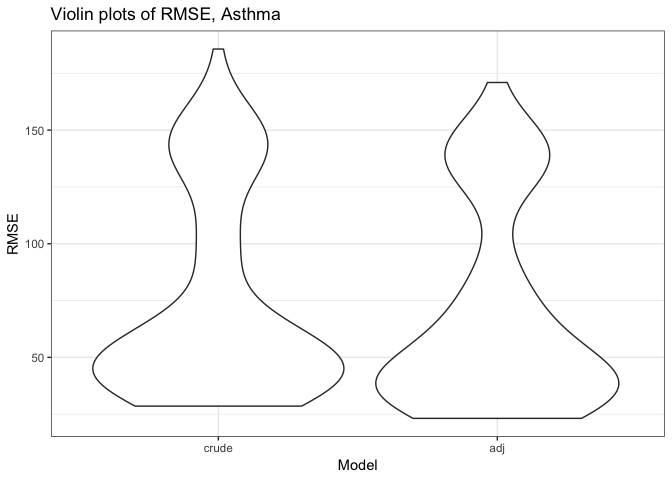
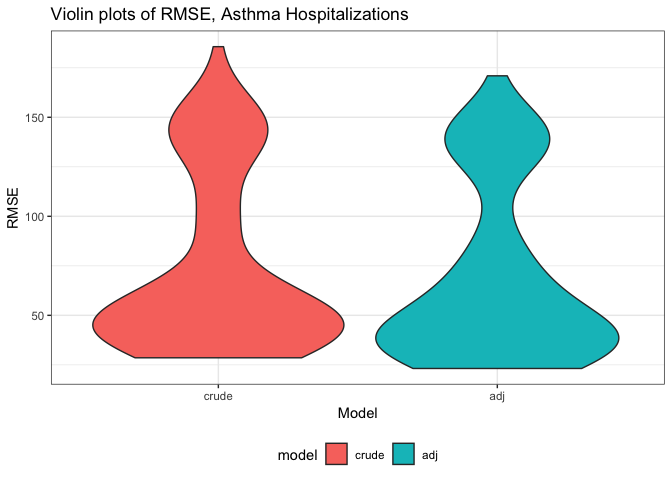
model building

diff --git a/model_building.md b/model_building.md
@@ -104,11 +104,15 @@ We will test two models each for asthma hospitalizations and CVD hospitalization
 
 Crude model:
 
-> asthma = pm25 cvd = pm25
+> asthma = unhealthy\_aqi
+
+> cvd = unhealthy\_aqi
 
 Adjusted model:
 
-> asthma = pm25 + num\_hosp cvd = pm25 + num\_hosp
+> asthma = unhealthy\_aqi + num\_hosp
+
+> cvd = unhealthy\_aqi + num\_hosp
 
 Interaction is not included, as it makes interpretation difficult.
 
@@ -117,11 +121,9 @@ Interaction is not included, as it makes interpretation difficult.
 ``` r
 # Crude asthma model
 crude_asthma_model = lm(asthma_hosp_percent_rate_ratio ~ total_unhealthy_days, data = nys_joined)
-summary(crude_asthma_model)
 
 # Adjusted asthma model
 adj_asthma_model = lm(asthma_hosp_percent_rate_ratio ~ total_unhealthy_days + number_of_hospitals, data = nys_joined)
-summary(adj_asthma_model)
 ```
 
 #### CVD model
@@ -129,11 +131,9 @@ summary(adj_asthma_model)
 ``` r
 # Crude cvd model
 crude_cvd_model = lm(cvd_percent_rate ~ total_unhealthy_days, data = nys_joined)
-summary(crude_cvd_model)
 
 # Adjusted cvd model
 adj_cvd_model = lm(cvd_percent_rate ~ total_unhealthy_days + number_of_hospitals, data = nys_joined)
-summary(adj_cvd_model)
 ```
 
 Cross validation
@@ -159,9 +159,9 @@ cv_asthma %>%
   gather(key = model, value = rmse) %>% 
   mutate(model = str_replace(model, "rmse_", ""),
          model = fct_inorder(model)) %>% 
-  ggplot(aes(x = model, y = rmse)) + 
+  ggplot(aes(x = model, y = rmse, fill = model)) + 
   labs(
-    title = "Violin plots of RMSE, Asthma",
+    title = "Violin plots of RMSE, Asthma Hospitalizations",
     y = "RMSE",
     x = "Model"
   ) +
@@ -212,9 +212,9 @@ cv_cvd %>%
   gather(key = model, value = rmse) %>% 
   mutate(model = str_replace(model, "rmse_", ""),
          model = fct_inorder(model)) %>% 
-  ggplot(aes(x = model, y = rmse)) + 
+  ggplot(aes(x = model, y = rmse, fill = model)) + 
   labs(
-    title = "Violin plots of RMSE, CVD",
+    title = "Violin plots of RMSE, CVD Hospitalizations",
     y = "RMSE",
     x = "Model"
   ) +
@@ -244,3 +244,62 @@ nys_joined %>%
 <img src="model_building_files/figure-markdown_github/cvd_diagnostics-1.png" width="90%" />
 
 The plot of the residuals for the adjusted CVD hospitalizations model shows that the residuals are widely distributed for the lower predicted values, and has similar issues to the asthma hospitalizations plot in that the small sample size pulling the fitted line.
+
+Final models
+------------
+
+``` r
+# Adjusted asthma model
+adj_asthma_model = lm(asthma_hosp_percent_rate_ratio ~ total_unhealthy_days + number_of_hospitals, data = nys_joined)
+summary(adj_asthma_model)
+## 
+## Call:
+## lm(formula = asthma_hosp_percent_rate_ratio ~ total_unhealthy_days + 
+##     number_of_hospitals, data = nys_joined)
+## 
+## Residuals:
+##     Min      1Q  Median      3Q     Max 
+## -143.08  -25.36   -8.35   19.10  403.28 
+## 
+## Coefficients:
+##                      Estimate Std. Error t value Pr(>|t|)    
+## (Intercept)            63.033     11.203   5.627 5.34e-07 ***
+## total_unhealthy_days   21.204      8.780   2.415 0.018847 *  
+## number_of_hospitals     9.170      2.452   3.740 0.000419 ***
+## ---
+## Signif. codes:  0 '***' 0.001 '**' 0.01 '*' 0.05 '.' 0.1 ' ' 1
+## 
+## Residual standard error: 66.47 on 59 degrees of freedom
+## Multiple R-squared:  0.424,  Adjusted R-squared:  0.4044 
+## F-statistic: 21.71 on 2 and 59 DF,  p-value: 8.579e-08
+# summary(crude_asthma_model)
+
+# Adjusted CVD model
+adj_cvd_model = lm(cvd_percent_rate ~ total_unhealthy_days + number_of_hospitals, data = nys_joined)
+summary(adj_cvd_model)
+## 
+## Call:
+## lm(formula = cvd_percent_rate ~ total_unhealthy_days + number_of_hospitals, 
+##     data = nys_joined)
+## 
+## Residuals:
+##    Min     1Q Median     3Q    Max 
+## -58.03 -14.66   0.80  13.00  41.60 
+## 
+## Coefficients:
+##                      Estimate Std. Error t value Pr(>|t|)    
+## (Intercept)          119.9347     3.4517  34.747   <2e-16 ***
+## total_unhealthy_days   0.6267     2.7051   0.232   0.8176    
+## number_of_hospitals    1.3145     0.7555   1.740   0.0871 .  
+## ---
+## Signif. codes:  0 '***' 0.001 '**' 0.01 '*' 0.05 '.' 0.1 ' ' 1
+## 
+## Residual standard error: 20.48 on 59 degrees of freedom
+## Multiple R-squared:  0.07996,    Adjusted R-squared:  0.04877 
+## F-statistic: 2.564 on 2 and 59 DF,  p-value: 0.08556
+# summary(crude_cvd_model)
+```
+
+In our final adjusted asthma model, we see that the adjusted R-squared value is 0.4044 (compared to 0.2755 for the crude model), with a statistically significant p-value of 8.579e-08 (compared to 7.099e-06 for the crude model). This indicates a moderately well fitting model for asthma and air quality, but could still benefit from the addition of other predictors.
+
+In our final adjusted CVD model, we see that the adjusted R-squared value is 0.0488 (compared to 0.0166 for the crude model), with a statistically insignificant p-value of 0.08556 (compared to 0.1592 for the crude model). This indicates that the while the adjusted model is better than the crude, it is still not a good model in predicting the effects of air quality on CVD hospitalizations in New York State.
